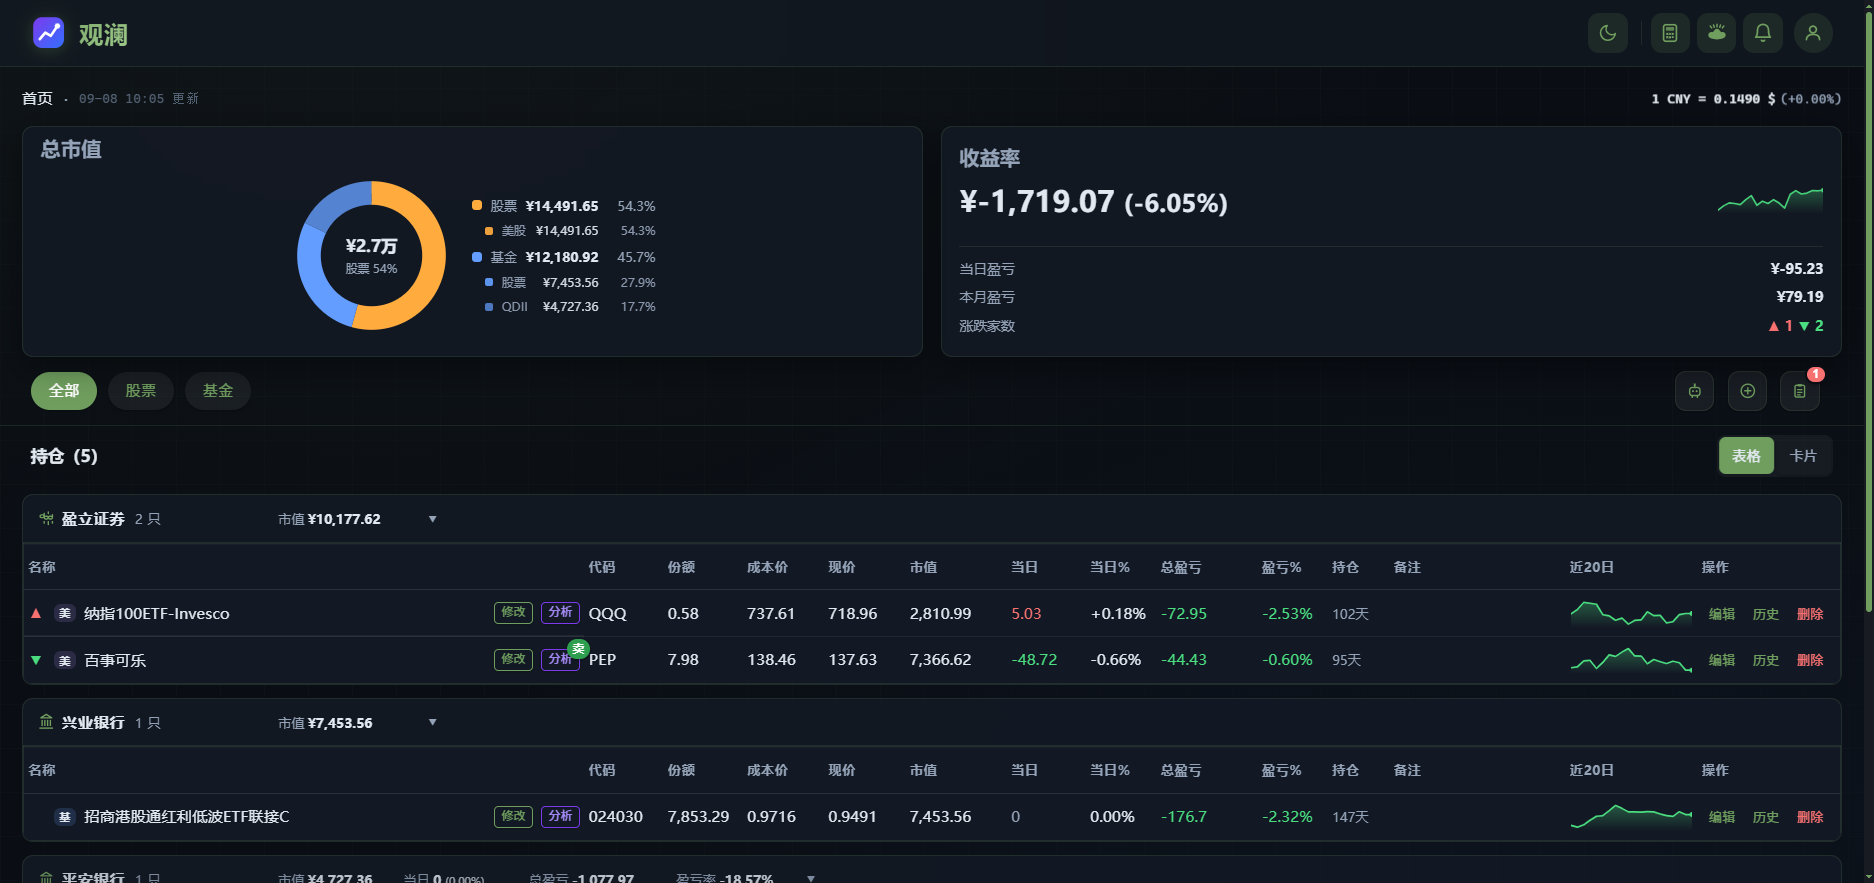
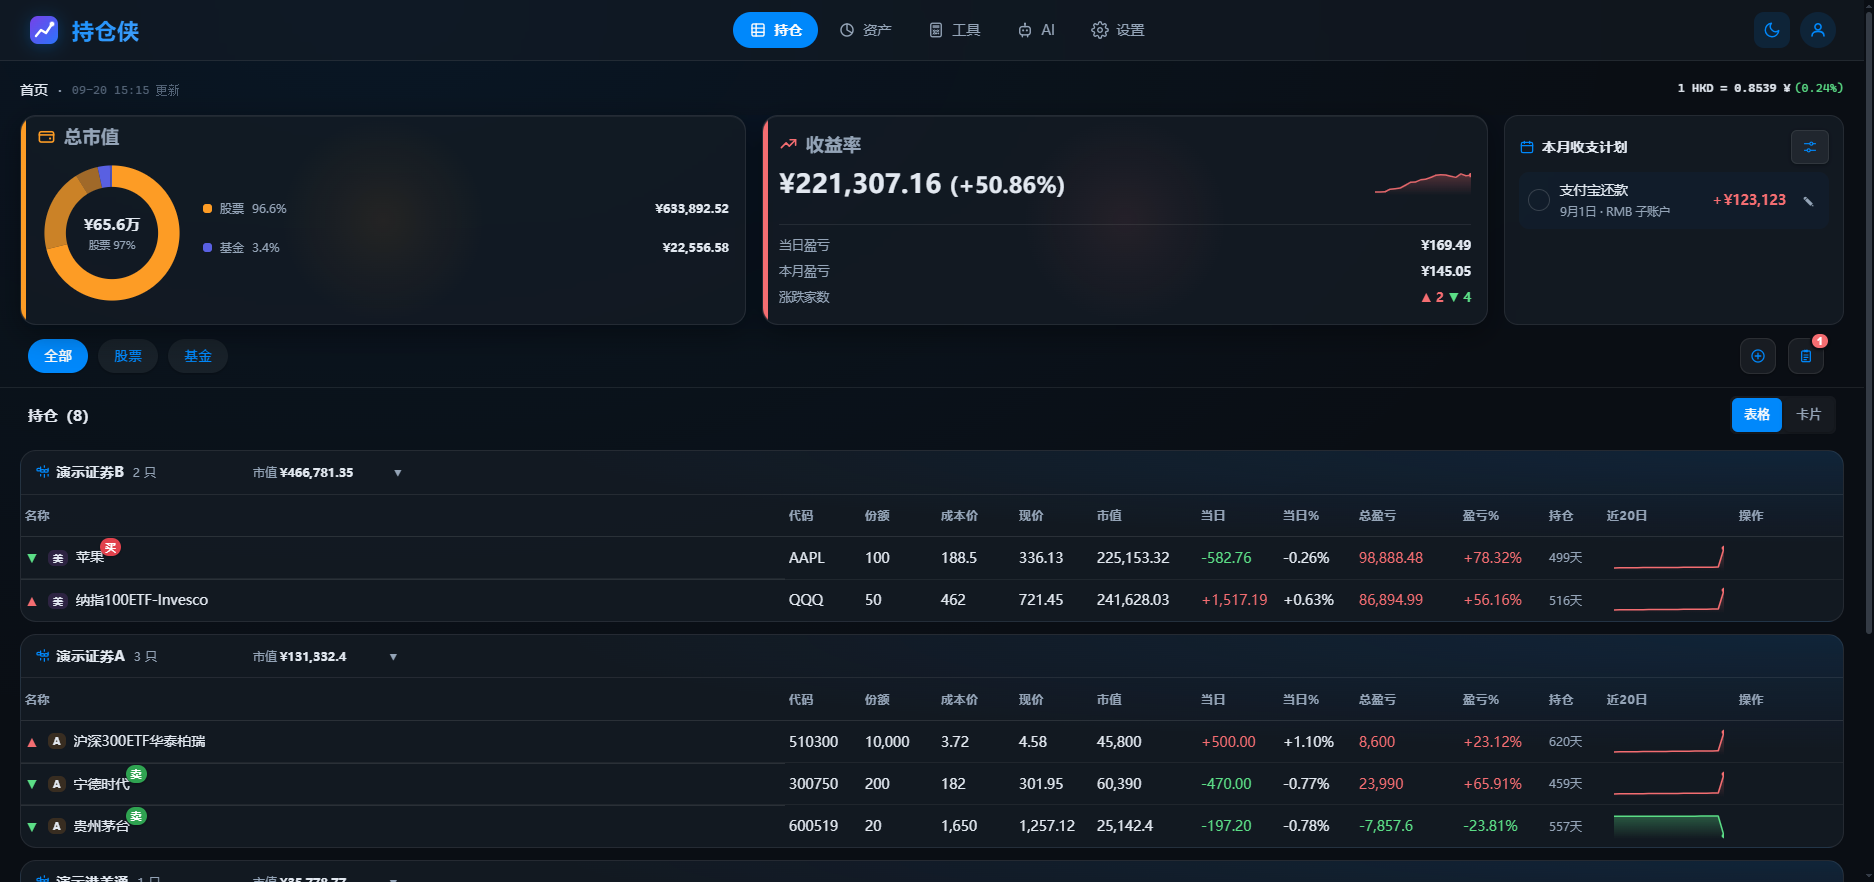
docs: README 近期新增功能说明并刷新界面截图

diff --git a/README.md b/README.md
@@ -1,8 +1,8 @@
-# Portfolio · 观澜 / My Folio Hub
+# Portfolio · 持仓侠 / My Folio Hub
 
-> **中文**：自托管的多用户个人投资持仓看板，统一管理 **A 股 / 美股 / 港股 / 基金** 持仓与**理财 / 现金 / 负债 / 消费**全景资产。自动刷新行情、计算盈亏、记录历史，提供盈亏日历、技术分析、动态调仓计划与 AI 总结。桌面与移动端自适应。
+> **中文**：自托管的多用户个人投资持仓看板，统一管理 **A 股 / 美股 / 港股 / 基金** 持仓与**理财 / 现金 / 负债 / 消费**全景资产。自动刷新行情、计算盈亏、记录历史，提供盈亏日历、技术分析、动态调仓计划与 AI 总结。桌面与移动端自适应。**极致轻量：前后端单二进制、纯 Go 无 CGO，实测常驻内存仅 10 余 MB。**
 >
-> **English**: A self-hosted, multi-user personal investment dashboard for tracking **A-share / US / HK stocks and funds**, plus wealth products, cash, liabilities and consumption. Auto-refreshes quotes, computes P/L, records history, and offers a P/L calendar, technical analysis, dynamic rebuy plans, and AI summaries. Responsive on desktop and mobile.
+> **English**: A self-hosted, multi-user personal investment dashboard for tracking **A-share / US / HK stocks and funds**, plus wealth products, cash, liabilities and consumption. Auto-refreshes quotes, computes P/L, records history, and offers a P/L calendar, technical analysis, dynamic rebuy plans, and AI summaries. Responsive on desktop and mobile. **Ultra-lightweight: a single pure-Go binary (no CGO); measured resident memory is only ~10 MB.**
 
 ## 🌐 在线 Demo / Live Demo
 
@@ -19,14 +19,13 @@ A pre-seeded demo instance with mock data is live at the link above; quotes refr
 
 **盈亏分析**
 - 盈亏日历：按日着色的月度热力、本月总盈亏、年 / 月快速跳转、单日持仓级明细（前一天 / 后一天切换）
-- 盈亏走势：累计盈亏曲线 + 当日盈亏柱状图，hover 查看 tooltip
 
 **技术分析**
 - K 线 + MA / MACD / RSI / KDJ / BOLL 全指标
 - 自动信号评级（看多 / 看空）+ 逐日信号回测胜率与期望收益，结果缓存
 - 🌟 **基金可关联场内 ETF 做技术分析**：场外基金 / QDII 本身没有 K 线，填一个「关联股票代码」指向对应的场内 ETF（如中概互联 → `513050`），即可像股票一样看 K 线、指标、信号评级与回测；关联代码同时驱动动态补仓档位的计算
 
-**资产全景**
+**资产**
 - 来源 / 理财 / 负债 / 现金 / 消费五类资产，环形占比 + 明细钻取
 - 理财：批量「更新理财持仓」、申购 / 赎回流水、上次快照对比
 - 现金账户：多币种（RMB / HKD / USD）、每来源每币种默认子账户（★）、账户间转账、现金流水
@@ -47,9 +46,17 @@ A pre-seeded demo instance with mock data is live at the link above; quotes refr
 - 多用户隔离（`X-User-Id`），支持数据清空、删除（需输入确认短语）
 - 暗黑 / 亮色双主题 + 主题色自定义：内置 3 套预设（土豪金 / 豆沙绿 / 经典蓝），取色器自定义任意主题色（本机 `localStorage` 记忆）
 
+## 🆕 近期新增
+
+- **收支计划**：首页紧凑卡片 + 「收支计划」页统一管理每月**待入账 / 待还款**；勾选完成即把真实出入账记入对应现金账户（关联负债则同步记一笔还款流水，可一键撤销）；已完成项自动从首页卡片隐藏（不再置灰），条目过多时卡片限高、内部滚动查看。
+- **待还款提前提醒**：到期前一天按自定义时间（默认 07:00）通过钉钉 / 邮件推送。
+- **完整迁移（导出 / 导入）**：勾选「完整迁移」后，除五大类资产外还会一并导出 / 导入 **收支计划、来源账户元数据（类型 / 境内外 / 币种）、AI 配置、应用设置与净值历史**，跨实例无缝搬迁。
+- **资产再平衡**：按风险画像（稳健 / 激进，可自定义）对比当前持仓，给出各类资产目标占比与买入 / 卖出调整建议。
+- **理财快照审计与撤销**：误改 / 误删的每日快照可查看改动前后并一键撤销。
+
 ## 界面预览
 
-| 主页（亮色） | 资产全景 |
+| 主页（亮色） | 资产 |
 | :---: | :---: |
 | ![](docs/screenshots/home-light.png) | ![](docs/screenshots/asset.png) |
 
@@ -61,9 +68,9 @@ A pre-seeded demo instance with mock data is live at the link above; quotes refr
 | :---: | :---: |
 | ![](docs/screenshots/wealth-update.png) | ![](docs/screenshots/buy-plan.png) |
 
-| AI 中枢 · AI 总结 |
-| :---: |
-| ![](docs/screenshots/ai-modal.png) |
+| 编辑收支计划 | AI 中枢 · AI 总结 |
+| :---: | :---: |
+| ![](docs/screenshots/cashflow-plan.png) | ![](docs/screenshots/ai-modal.png) |
 
 ## 功能详解
 
@@ -73,9 +80,9 @@ A pre-seeded demo instance with mock data is live at the link above; quotes refr
 
 表格行内的「操作」列统一为**纯图标按钮**（编辑 / 历史 / 删除），默认随鼠标悬停淡入，触屏设备常显；图表列、金额列均按等宽数字对齐。
 
-### 盈亏日历与走势
+### 盈亏日历
 
-「盈亏分析」弹框内含 **盈亏日历 / 盈亏走势** 双 Tab。日历按日着色显示每日总盈亏（红涨绿跌），悬停有数据的日期会以表情符号（😍 大涨 → 😱 大跌）代替金额展示当日情绪；点击月份标题可年 / 月快速跳转；点击有数据的日期弹出当日持仓级盈亏明细，可用 ‹ › 按钮在前 / 后一个有数据日期间连续浏览。走势 Tab 提供累计盈亏曲线与当日盈亏柱状图，hover 显示具体数值。
+「盈亏分析」弹框为纯日历视图（已移除旧版「盈亏走势」Tab）：按日着色显示每日总盈亏（红涨绿跌），悬停有数据的日期会以表情符号（😍 大涨 → 😱 大跌）代替金额展示当日情绪；点击月份标题可年 / 月快速跳转；点击有数据的日期弹出当日持仓级盈亏明细，可用 ‹ › 按钮在前 / 后一个有数据日期间连续浏览。
 
 ### 技术分析
 
@@ -92,9 +99,9 @@ A pre-seeded demo instance with mock data is live at the link above; quotes refr
 
 关联代码同时驱动**动态补仓档位**：档位依据关联 ETF 的均线与波动率给出，而不是基金净值，所以场外基金也能拿到与场内一致的价量依据。若关联代码的 K 线拉取失败，该基金的补仓档位会退回为空，不会拿陈旧行情给出建议。
 
-### 资产全景 · 理财与现金
+### 资产 · 理财与现金
 
-资产全景覆盖来源 / 理财 / 负债 / 现金 / 消费五类，环形图显示占比，点击可钻取明细。
+资产页覆盖来源 / 理财 / 负债 / 现金 / 消费五类，环形图显示占比，点击可钻取明细。
 
 「更新理财持仓」弹框一次性录入所有理财产品的当日持仓金额与当日净存入（转入为正、取出为负），并可指定联动资金账户（申购扣款 / 赎回回款自动记账），保存后自动生成快照与收益统计。
 
@@ -166,7 +173,7 @@ docker compose up -d
 
 ```bash
 docker compose up -d --build
-# 或强制无缓存重建（前端改动必须）
+# 或强制无缓存重建
 docker compose build --no-cache && docker compose up -d --force-recreate
 ```
 
@@ -182,88 +189,6 @@ go build -o portfolio .      # 产物 ./portfolio
 ```
 
 数据落在 `./data/portfolio.db`（compose 已挂 volume）。停止：`docker compose down`（保留数据）；`docker compose down -v` 连数据卷一并删除，慎用。
-
-### 前端缓存与版本号
-
-前端 `index.html` 以 `app.js?v=VERSION` / `style.css?v=VERSION` 引用资源。**改动前端后必须更新 `VERSION` 并重建**，否则浏览器仍用旧缓存：
-
-```bash
-./update-version.sh          # 写入 VERSION = git短哈希|时间戳（无 git 时退化为纯时间戳）
-```
-
-### 部署验证清单
-
-部署后务必核验，不要只看构建成功：
-
-1. **HTTP 可达**：`curl -s -m 10 "http://localhost:9989/" -o /dev/null -w "HTTP %{http_code}\n"` → 期望 `200`。
-2. **版本号生效**：`curl -s "http://localhost:9989/" | grep -o "v=新VERSION值"` 应命中。
-3. **接口自检**：`curl -s "http://localhost:9989/api/version"` 返回 JSON 含版本。
-4. **前端语法把关**（无需构建）：`node --check web/app.js`。
-5. **进程/容器状态**：`docker ps --filter name=portfolio` 为 `Up`，或本机 `./portfolio` 进程在跑。
-
-### 常见坑
-
-- **前端改了不生效** → 忘了 `./update-version.sh` 或忘了重建镜像（必须 `build --no-cache`，确保最新前端进镜像）。
-- **docker build 卡在模块下载** → Dockerfile 用 `GOPROXY=https://goproxy.cn`；若所在网络无法访问该代理，需在能联网的环境构建。
-
-## 目录结构
-
-```
-portfolio/
-├── main.go                # 入口：embed web、初始化 DB / FX / 定时任务
-├── internal/
-│   ├── api/               # Gin 路由 + HTTP 处理（handler / analysis / asset / ai / notify / import）
-│   ├── db/                # SQLite 访问、表结构、迁移
-│   └── market/            # 行情抓取、技术指标、概率评估、补仓计划
-├── web/                   # 前端（//go:embed 打包）
-│   ├── index.html / app.js / style.css / favicon.svg
-├── Dockerfile / docker-compose.yml
-├── update-version.sh      # 写 VERSION = git short-hash|时间戳（破除浏览器缓存）
-└── docs/                  # 文档目录
-```
-
-## 数据模型（核心表）
-
-共 25 张表。多用户隔离方式：业务主表（`holdings`、资产全景各表、AI、小工具、设置）均带 `user_id`；`position_tx` / `buy_plan_executed` / `analysis_cache` / `wealth_snapshots` 通过关联 ID 间接隔离；`notify_settings`（单行 `id=1`）、`fx_cache`、`meta` 为全局共享。
-
-### 持仓与行情
-
-| 表 | 作用 |
-|---|---|
-| `holdings` | 持仓主表。`symbol/name/category/market/currency`、`quantity/cost_price/current_price/prev_close`、`buy_date`（持有天数）、`source_id`（资产来源）、`buy_plan`（动态补仓档位 JSON）、`closed/last_quantity/last_cost_price`（清仓后快照，供历史盈亏重算）、`analysis_signal/analysis_up_pct/analysis_at`（信号缓存）、`transaction_cost`、`asset_type` |
-| `price_daily` | 每日收盘价，主键 `(date, symbol, user_id)` |
-| `pnl_daily` | 每日盈亏汇总，主键 `(date, user_id)`；`total_cny/total_usd/rate` + `detail` JSON（个股 / 理财明细） |
-| `realized_pnl_daily` | 减仓落库的**已实现**盈亏（按用户 + 日期 + 持仓），与浮盈分开统计 |
-| `position_tx` | 加减仓流水：`tx_type` / `quantity` / `price` / `amount` / `fee` / `realized_pnl` / `note` |
-| `buy_plan_executed` | 补仓档位「已执行」标记（含 `action`） |
-| `analysis_cache` | 技术指标与信号回测结果缓存（按 `symbol`，带 `idx_analysis_cache_symbol`） |
-
-### 资产全景
-
-| 表 | 作用 |
-|---|---|
-| `asset_sources` | 资产来源 / 平台：`type`（bank / broker / software）、`region`、`currencies`（逗号分隔多币种） |
-| `wealth_products` | 理财产品：`currency`、`cum_pnl`（累计收益） |
-| `wealth_snapshots` | 理财每日快照，主键 `(wealth_id, date)`；`amount` 持仓金额 + `cashflow` 当日净存入 |
-| `wealth_snapshot_audit` | 理财快照改动审计：记录改前 / 改后值，支持一键撤销误改误删 |
-| `liabilities` | 负债：金额 / 年利率（`rate` 可为 0）/ 月供 |
-| `liability_flows` | 负债流水：`loan` 增加贷款 / `repay` 还款，逐笔记余额变动 |
-| `cash_accounts` | 现金账户：多币种 `currency`、`is_default`（每来源每币种一个 ★ 默认子账户） |
-| `cash_flow` | 现金流水：加减仓付款 / 回款、转账（`transfer_out/in`）、手工调整，含 `ref_*` 关联与余额快照 |
-| `consumptions` | 消费记录：日期 / 来源 / 分类 / 金额 |
-
-### 设置与其他
-
-| 表 | 作用 |
-|---|---|
-| `operation_guides` | 持仓操作指南（买卖笔记）：`title/content/tags/side`（buy / sell） |
-| `users` | 多用户，按 `X-User-Id` 隔离数据；上限 5 个 |
-| `notify_settings` | 通知渠道（钉钉加签 / 邮件 TLS）与推送策略 |
-| `ai_settings` | AI 模型与提示词配置，主键含 `user_id` |
-| `ai_summary_history` | AI 总结历史，正文按 Markdown 渲染 |
-| `calc_inputs` | 小工具输入持久化，主键 `(kind, user_id)`，`payload` 为 JSON |
-| `portfolio_settings` | 应用设置 KV，主键 `(kind, user_id)`；现有 `risk_profiles`（风险画像）、`asset_type_labels`（资产类型标签） |
-| `fx_cache` / `meta` | 汇率缓存（含昨日值，算「汇率日变动」）/ 通用 KV |
 
 ## 定时任务
 
